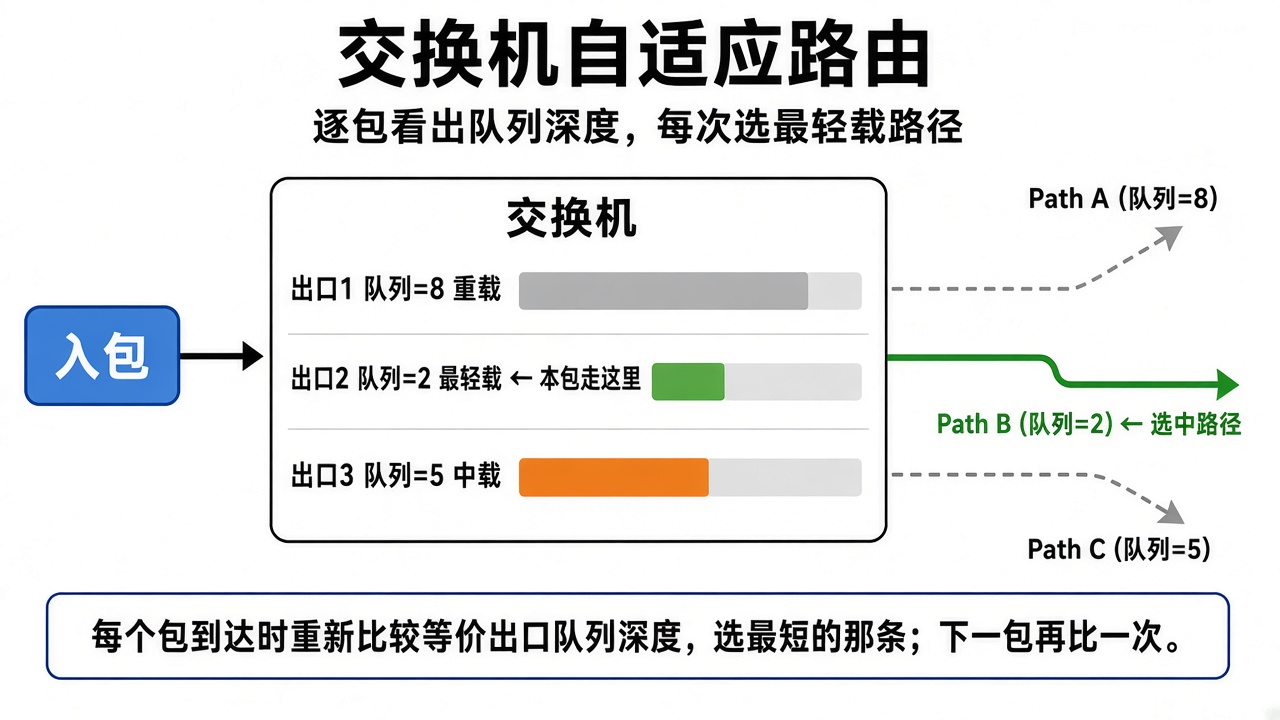
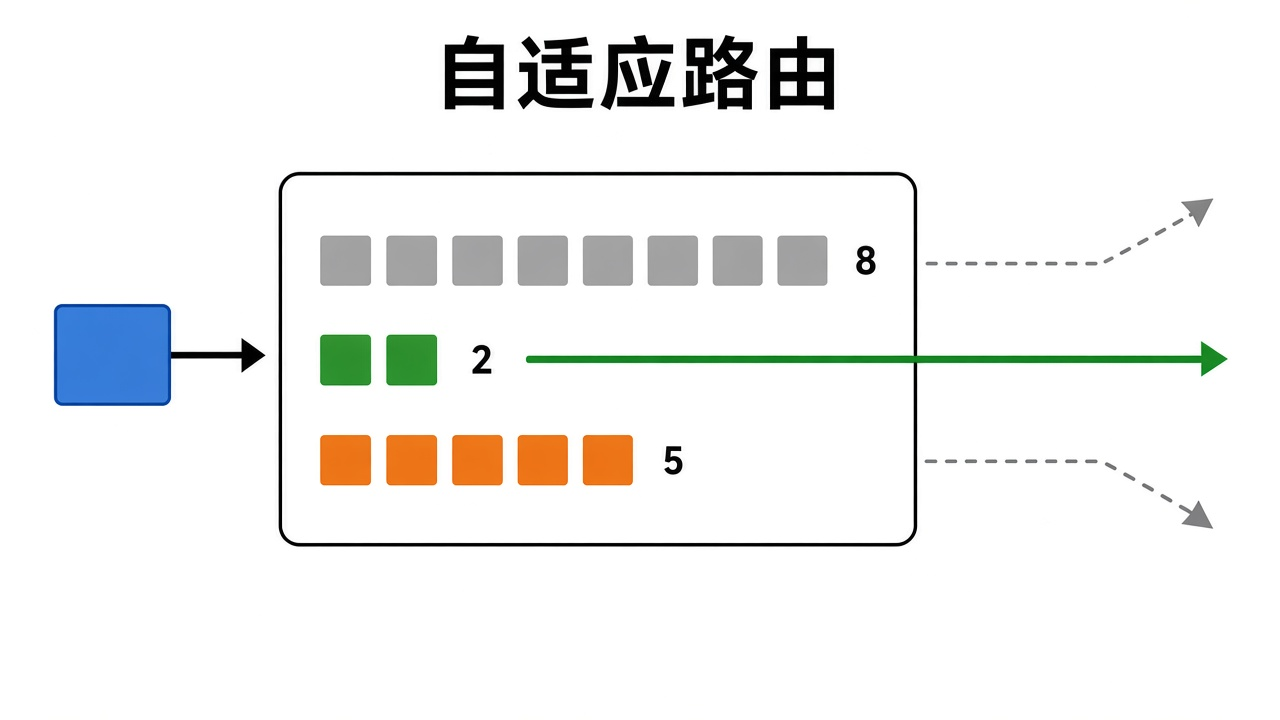
docs: simplify adaptive-routing schematic
Replace the text-heavy figure with stacked packets, queue
depths, and a single highlighted lightest-path arrow.

diff --git a/docs/adaptive-routing-queue-depth.md b/docs/adaptive-routing-queue-depth.md
@@ -1,36 +1,5 @@
-# 交换机自适应路由（简图）
+# 自适应路由
 
-一句话：包进交换机后，在一组等价出口里看谁的出队列最短，**这个包**就从最短的口出去；下一个包再比一次。
+![逐包选最短出队列](adaptive-routing-queue-depth.png)
 
-![交换机按出队列深度逐包选最轻载路径](adaptive-routing-queue-depth.png)
-
-## 工作步骤
-
-```
-入包到达
-    │
-    ▼
-取出等价路径集合（出口1 / 2 / 3 都能到目的）
-    │
-    ▼
-读各出口当前队列深度     8    2    5
-    │
-    ▼
-选 min = 出口2
-    │
-    ▼
-本包从出口2转出
-    │
-    ▼
-下一包重新读队列，不粘在出口2
-```
-
-## 和哈希 ECMP 差在哪
-
-| | 普通 ECMP | 自适应路由（本图） |
-| --- | --- | --- |
-| 决策依据 | 包头哈希 | **出端口队列深度** |
-| 粒度 | 一流一路径（流粘滞） | **一包一路径** |
-| 拥塞时 | 哈希撞车会一直打满某一口 | 下一包自动换到更空的口 |
-
-不做流粘滞，所以同一条流的相邻包可能走不同出口。代价是收端乱序；收益是不会把瞬时拥塞钉死在一条链路上。
+方块多少 = 出队列深度。绿实线 = 本包走最轻的口；下一包再比一次。
